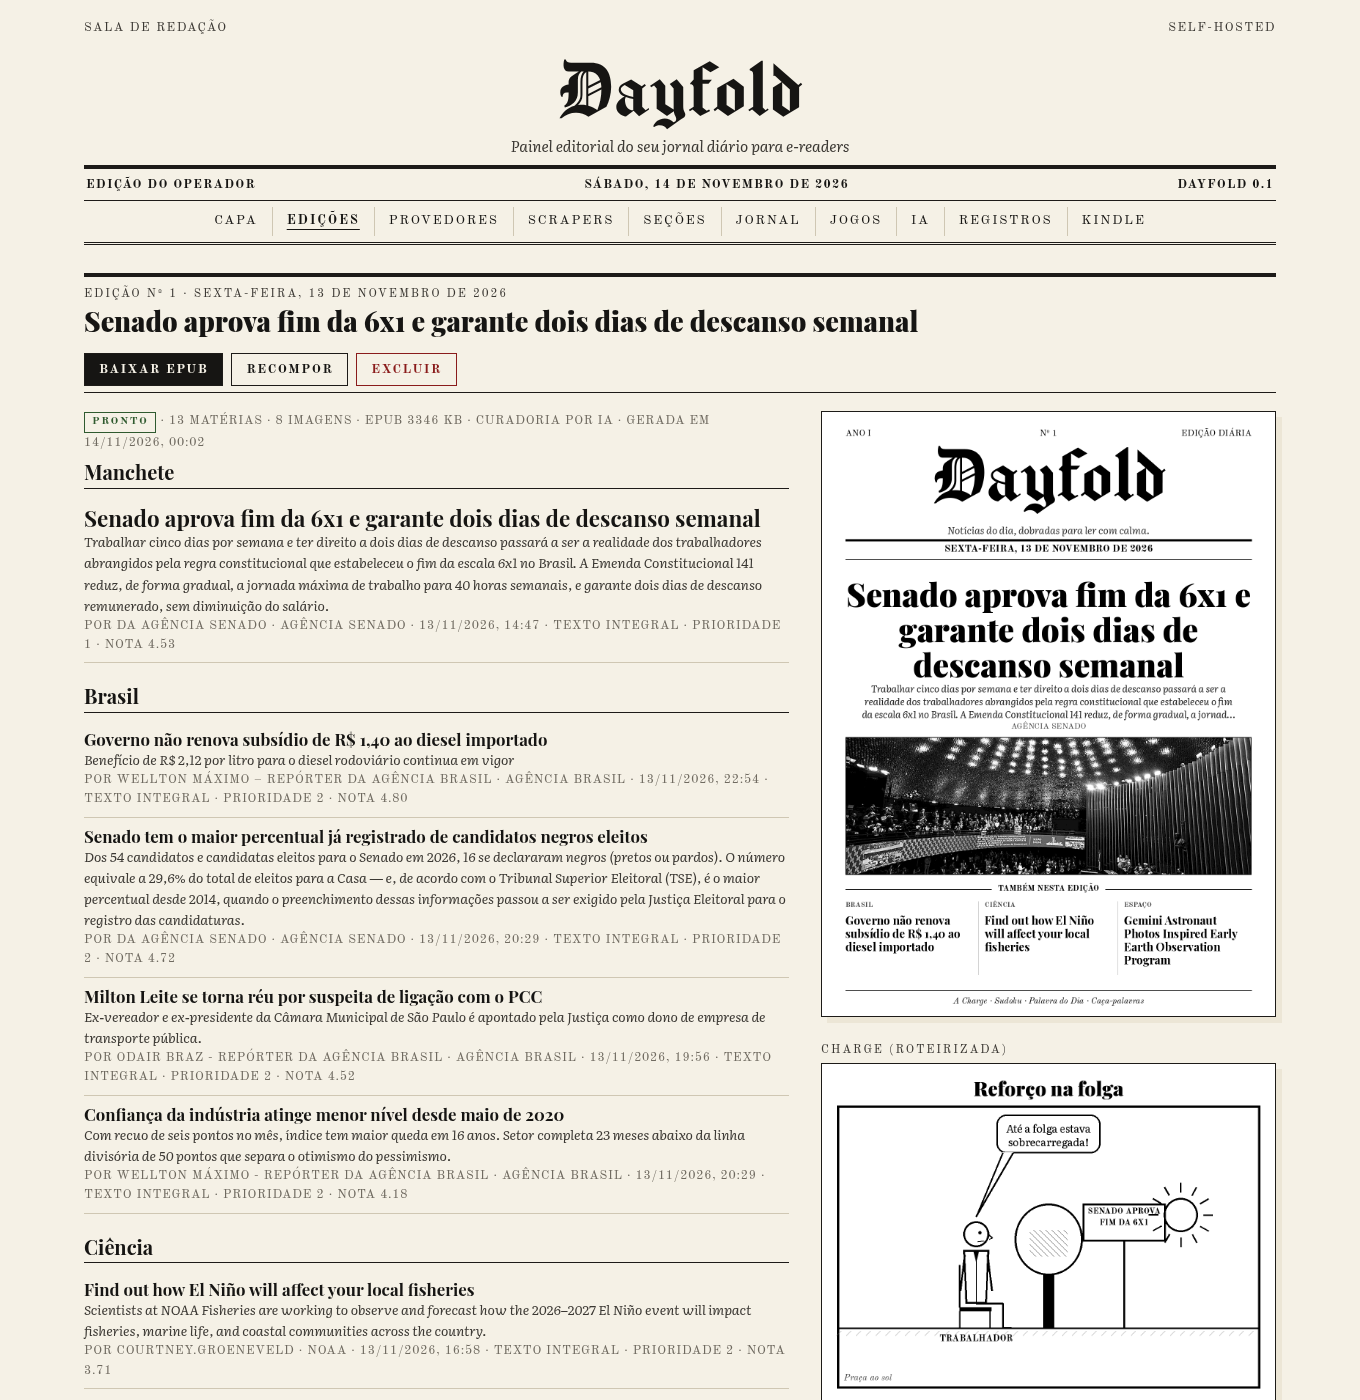
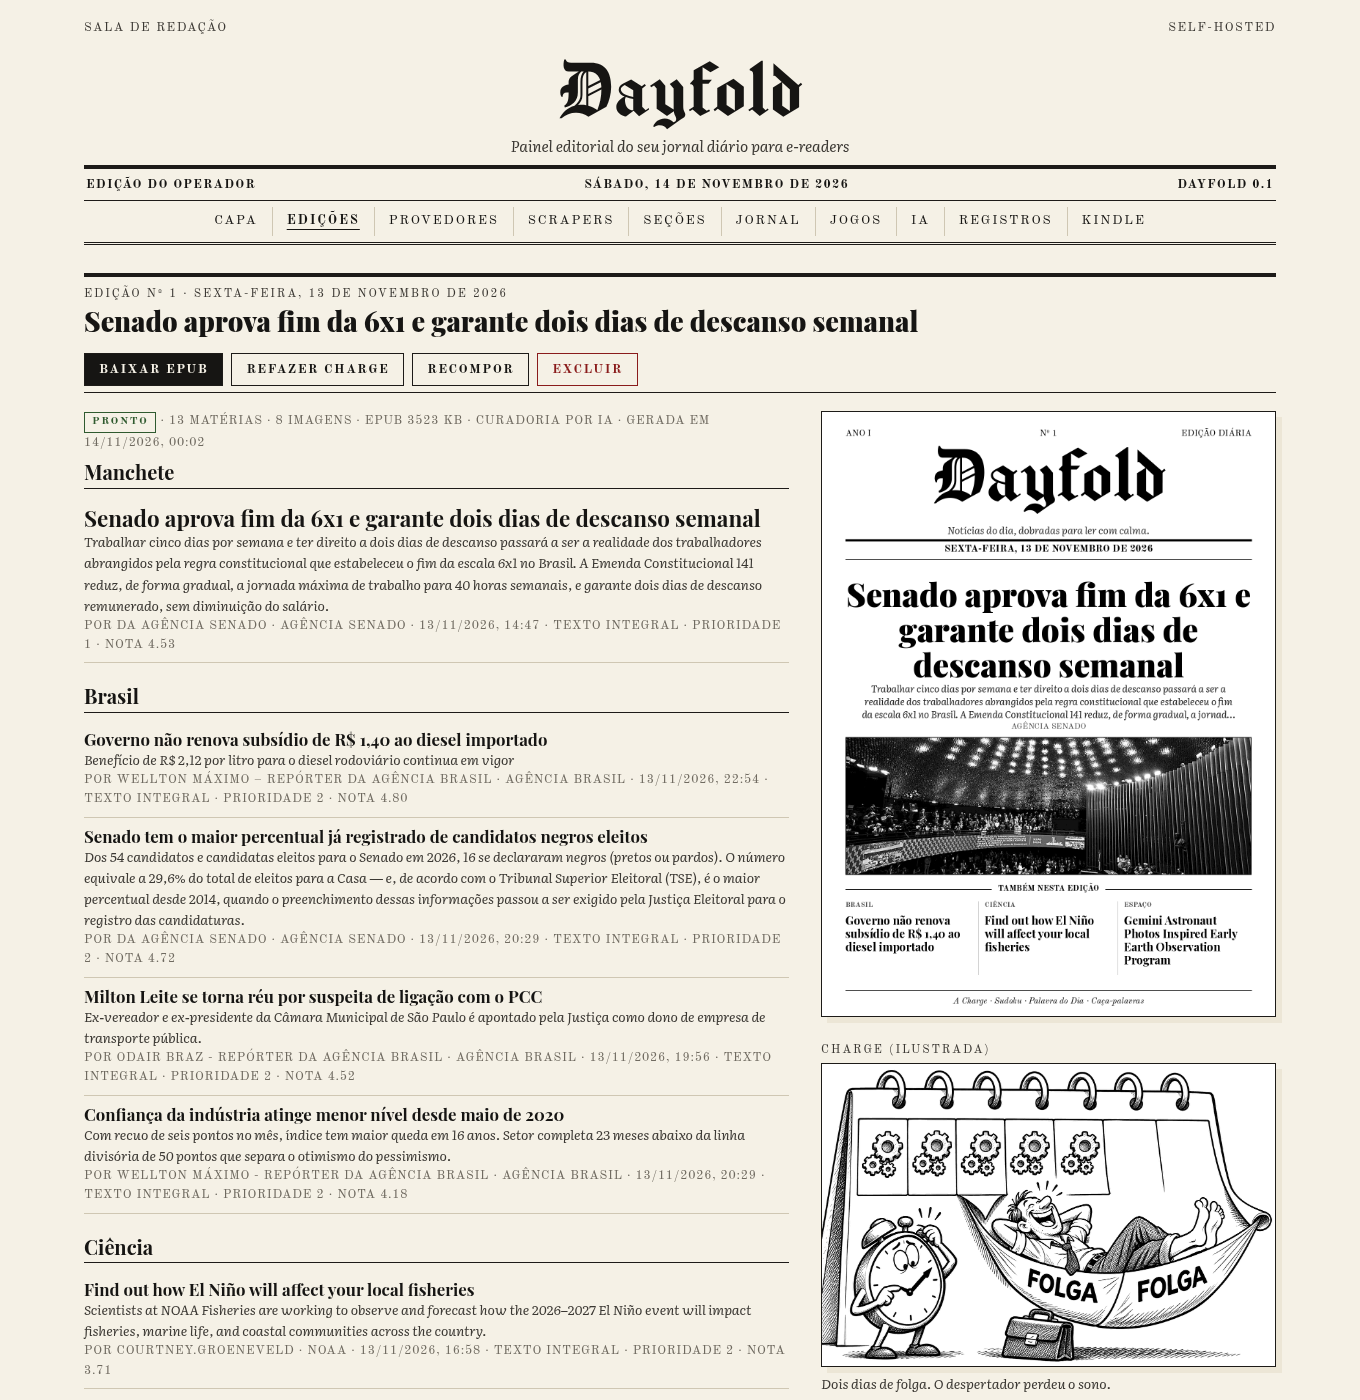
docs: show the illustrated cartoon in the README

Changed region(s): [[0.5868, 0.7371, 0.9574, 1.0], [0.2162, 0.2457, 0.4632, 0.2764]]

diff --git a/README.md b/README.md
@@ -22,6 +22,11 @@ downloads one file a day and reads it offline.
 
 > The screenshots above were taken on a Kindle Paperwhite running KOReader and the Dayfold plugin.
 
+<p align="center">
+  <img src="docs/screenshots/cartoon-illustrated.png" alt="Daily cartoon generated by Dayfold" width="640"><br>
+  <em>Cartoon of the day, generated from the headlines: "Dois dias de folga. O despertador perdeu o sono."</em>
+</p>
+
 ## Features
 
 * **Classic newspaper design** everywhere: blackletter masthead (Chomsky, an open font in the
